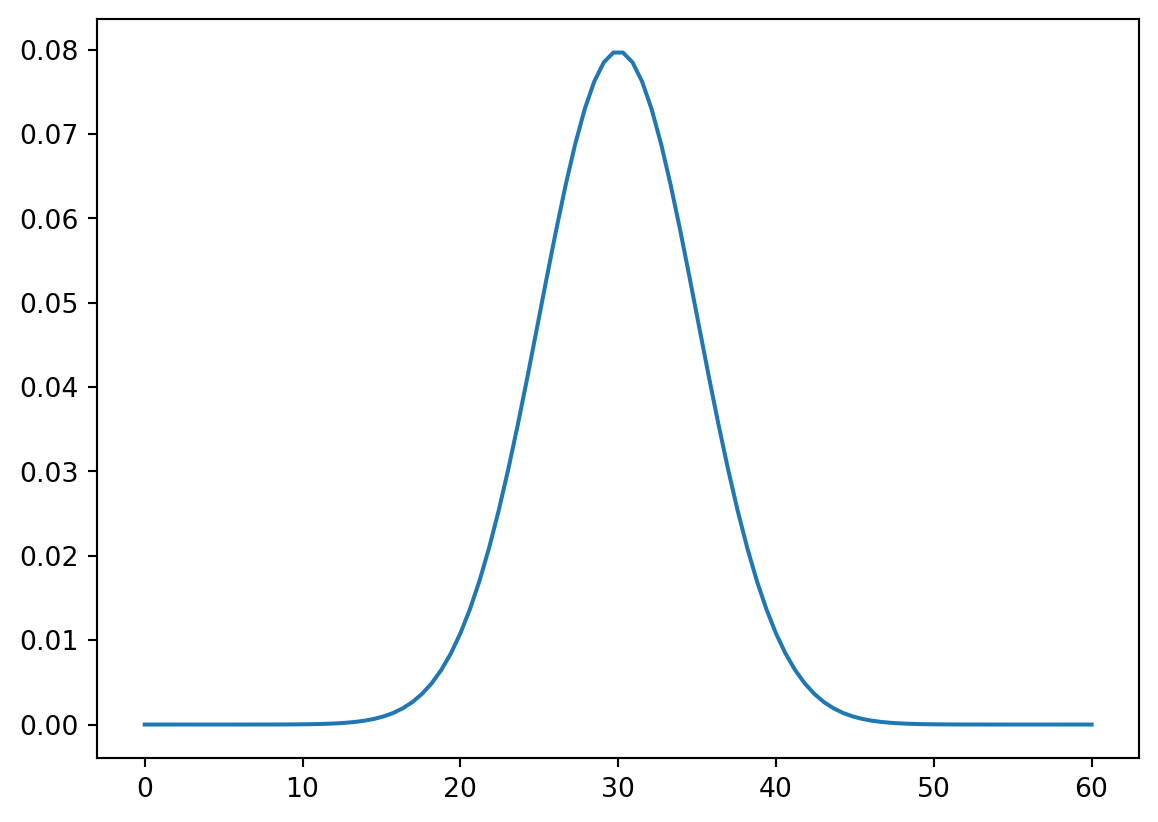
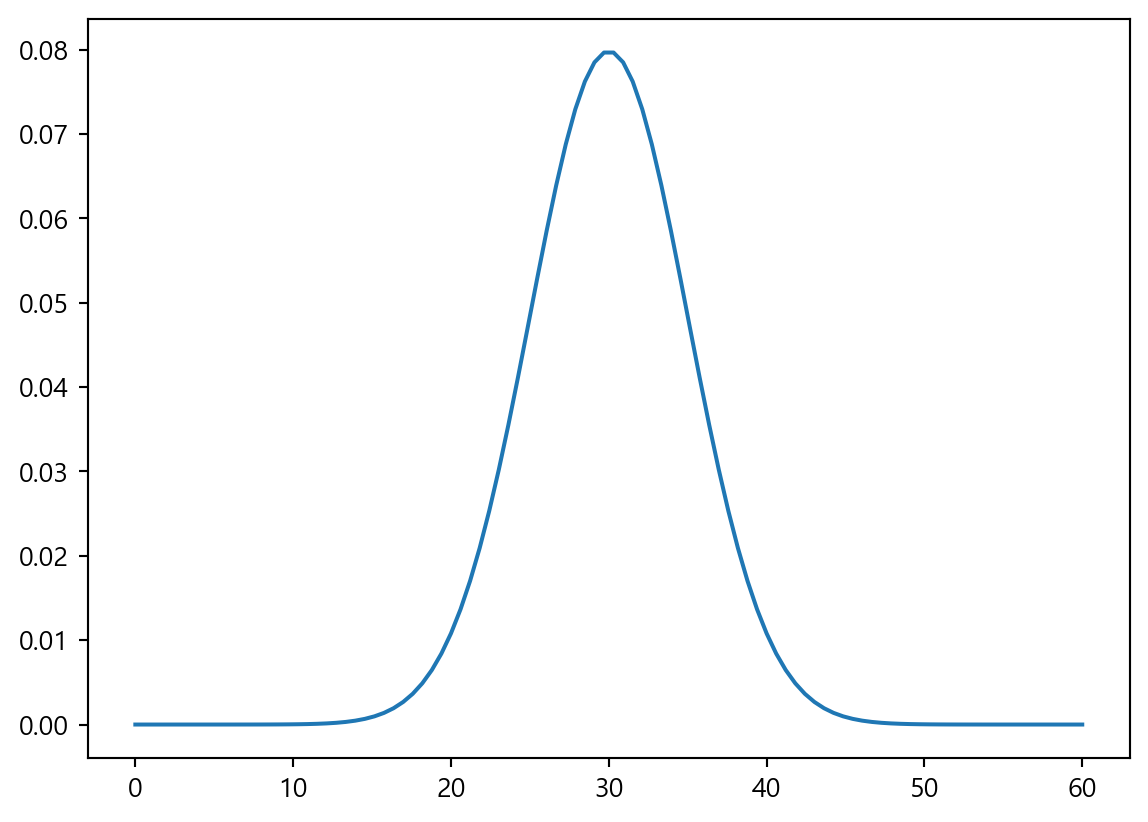
hw8

diff --git a/docs/posts/hw8/index.html b/docs/posts/hw8/index.html
@@ -214,7 +214,7 @@ pre > code.sourceCode > span > a:first-child::before { text-decoration: underlin
 <h2 class="anchored" data-anchor-id="년에-실시-된-adp-실기-시험의-통계파트-표준점수는-평균이-30-표준편차가-5인-정규분포를-따른다고-한다.">2022년에 실시 된 ADP 실기 시험의 통계파트 표준점수는 평균이 30, 표준편차가 5인 정규분포를 따른다고 한다.</h2>
 <section id="adp-실기-시험의-통계파트-표준점수의-밀도함수를-그려보세요." class="level4">
 <h4 class="anchored" data-anchor-id="adp-실기-시험의-통계파트-표준점수의-밀도함수를-그려보세요.">1) ADP 실기 시험의 통계파트 표준점수의 밀도함수를 그려보세요.</h4>
-<div id="e6371681" class="cell" data-execution_count="1">
+<div id="52dee985" class="cell" data-execution_count="1">
 <div class="sourceCode cell-code" id="cb1"><pre class="sourceCode python code-with-copy"><code class="sourceCode python"><span id="cb1-1"><a href="#cb1-1" aria-hidden="true" tabindex="-1"></a><span class="im">import</span> numpy <span class="im">as</span> np</span>
 <span id="cb1-2"><a href="#cb1-2" aria-hidden="true" tabindex="-1"></a><span class="im">from</span> scipy.stats <span class="im">import</span> norm</span>
 <span id="cb1-3"><a href="#cb1-3" aria-hidden="true" tabindex="-1"></a><span class="im">import</span> matplotlib.pyplot <span class="im">as</span> plt</span>
@@ -227,7 +227,7 @@ pre > code.sourceCode > span > a:first-child::before { text-decoration: underlin
 <div class="cell-output cell-output-display">
 <div>
 <figure class="figure">
-<p><img src="index_files/figure-html/cell-2-output-1.png" width="579" height="411" class="figure-img"></p>
+<p><img src="index_files/figure-html/cell-2-output-1.png" width="574" height="411" class="figure-img"></p>
 </figure>
 </div>
 </div>
@@ -235,7 +235,7 @@ pre > code.sourceCode > span > a:first-child::before { text-decoration: underlin
 </section>
 <section id="adp-수험생을-임의로-1명을-선택하여-통계-점수를-조회했을때-45점-보다-높은-점수를-받았을-확률을-구하세요." class="level4">
 <h4 class="anchored" data-anchor-id="adp-수험생을-임의로-1명을-선택하여-통계-점수를-조회했을때-45점-보다-높은-점수를-받았을-확률을-구하세요.">2) ADP 수험생을 임의로 1명을 선택하여 통계 점수를 조회했을때 45점 보다 높은 점수를 받았을 확률을 구하세요.</h4>
-<div id="ac5269f7" class="cell" data-execution_count="2">
+<div id="25799405" class="cell" data-execution_count="2">
 <div class="sourceCode cell-code" id="cb2"><pre class="sourceCode python code-with-copy"><code class="sourceCode python"><span id="cb2-1"><a href="#cb2-1" aria-hidden="true" tabindex="-1"></a><span class="co"># X ~ N(30,5^2) 일 때, p(X &gt; 45) 구해라.</span></span>
 <span id="cb2-2"><a href="#cb2-2" aria-hidden="true" tabindex="-1"></a><span class="bu">print</span>(<span class="st">"45점 보다 높은 점수를 받았을 확률 :"</span>,<span class="dv">1</span><span class="op">-</span> norm.cdf(<span class="dv">45</span>, loc<span class="op">=</span><span class="dv">30</span>, scale<span class="op">=</span><span class="dv">5</span>))</span></code><button title="Copy to Clipboard" class="code-copy-button"><i class="bi"></i></button></pre></div>
 <div class="cell-output cell-output-stdout">
@@ -245,7 +245,7 @@ pre > code.sourceCode > span > a:first-child::before { text-decoration: underlin
 </section>
 <section id="슬통이는-상위-10에-해당하는-점수를-얻었다고-한다면-슬통이의-점수는-얼마인지-계산해보세요." class="level4">
 <h4 class="anchored" data-anchor-id="슬통이는-상위-10에-해당하는-점수를-얻었다고-한다면-슬통이의-점수는-얼마인지-계산해보세요.">3) 슬통이는 상위 10%에 해당하는 점수를 얻었다고 한다면, 슬통이의 점수는 얼마인지 계산해보세요.</h4>
-<div id="fa888dbc" class="cell" data-execution_count="3">
+<div id="c6dfd127" class="cell" data-execution_count="3">
 <div class="sourceCode cell-code" id="cb4"><pre class="sourceCode python code-with-copy"><code class="sourceCode python"><span id="cb4-1"><a href="#cb4-1" aria-hidden="true" tabindex="-1"></a><span class="bu">print</span>(<span class="st">"상위 10%에 해당하는 점수 :"</span>,norm.ppf(<span class="fl">0.9</span>, loc<span class="op">=</span><span class="dv">30</span>, scale<span class="op">=</span><span class="dv">5</span>))</span></code><button title="Copy to Clipboard" class="code-copy-button"><i class="bi"></i></button></pre></div>
 <div class="cell-output cell-output-stdout">
 <pre><code>상위 10%에 해당하는 점수 : 36.407757827723</code></pre>
@@ -254,7 +254,7 @@ pre > code.sourceCode > span > a:first-child::before { text-decoration: underlin
 </section>
 <section id="슬기로운-통계생활의-해당-회차-수강생은-16명이었다고-한다.-16명의-통계-파트-점수를-평균-내었을-때-이-평균값이-따르는-분포의-확률밀도-함수를-1번의-그래프와-겹쳐-그려보세요." class="level4">
 <h4 class="anchored" data-anchor-id="슬기로운-통계생활의-해당-회차-수강생은-16명이었다고-한다.-16명의-통계-파트-점수를-평균-내었을-때-이-평균값이-따르는-분포의-확률밀도-함수를-1번의-그래프와-겹쳐-그려보세요.">4) 슬기로운 통계생활의 해당 회차 수강생은 16명이었다고 한다. 16명의 통계 파트 점수를 평균 내었을 때, 이 평균값이 따르는 분포의 확률밀도 함수를 1번의 그래프와 겹쳐 그려보세요.</h4>
-<div id="4009676a" class="cell" data-execution_count="4">
+<div id="54aaf6f4" class="cell" data-execution_count="4">
 <div class="sourceCode cell-code" id="cb6"><pre class="sourceCode python code-with-copy"><code class="sourceCode python"><span id="cb6-1"><a href="#cb6-1" aria-hidden="true" tabindex="-1"></a>x <span class="op">=</span> np.linspace(<span class="dv">0</span>, <span class="dv">60</span>, <span class="dv">100</span>)</span>
 <span id="cb6-2"><a href="#cb6-2" aria-hidden="true" tabindex="-1"></a>y <span class="op">=</span> norm.pdf(x, loc<span class="op">=</span><span class="dv">30</span>, scale<span class="op">=</span><span class="dv">5</span>)</span>
 <span id="cb6-3"><a href="#cb6-3" aria-hidden="true" tabindex="-1"></a>y2 <span class="op">=</span> norm.pdf(x, loc<span class="op">=</span><span class="dv">30</span>, scale<span class="op">=</span><span class="dv">5</span><span class="op">/</span>np.sqrt(<span class="dv">16</span>))</span>
@@ -283,7 +283,7 @@ pre > code.sourceCode > span > a:first-child::before { text-decoration: underlin
 </section>
 <section id="슬기로운-통계생활-adp-반-수강생들의-통계점수를-평균내었다고-할-때-이-값이-38점보다-높게-나올-확률을-구하세요." class="level4">
 <h4 class="anchored" data-anchor-id="슬기로운-통계생활-adp-반-수강생들의-통계점수를-평균내었다고-할-때-이-값이-38점보다-높게-나올-확률을-구하세요.">5) 슬기로운 통계생활 ADP 반 수강생들의 통계점수를 평균내었다고 할 때, 이 값이 38점보다 높게 나올 확률을 구하세요.</h4>
-<div id="1470973e" class="cell" data-execution_count="5">
+<div id="5ec36b6c" class="cell" data-execution_count="5">
 <div class="sourceCode cell-code" id="cb8"><pre class="sourceCode python code-with-copy"><code class="sourceCode python"><span id="cb8-1"><a href="#cb8-1" aria-hidden="true" tabindex="-1"></a><span class="co"># X_bar ~ N(30, (5/sqrt(16))^2) 일 때, p(X_bar &gt; 38) 구해라.</span></span>
 <span id="cb8-2"><a href="#cb8-2" aria-hidden="true" tabindex="-1"></a><span class="bu">print</span>(<span class="st">"38점 보다 높은 점수를 받았을 확률 :"</span>,<span class="dv">1</span><span class="op">-</span> norm.cdf(<span class="dv">38</span>, loc<span class="op">=</span><span class="dv">30</span>, scale<span class="op">=</span><span class="dv">5</span><span class="op">/</span>np.sqrt(<span class="dv">16</span>)))</span></code><button title="Copy to Clipboard" class="code-copy-button"><i class="bi"></i></button></pre></div>
 <div class="cell-output cell-output-stdout">
@@ -302,7 +302,7 @@ pre > code.sourceCode > span > a:first-child::before { text-decoration: underlin
 <h2 class="anchored" data-anchor-id="covid19의-발병률은-1라고-한다.-다음은-이번-코로나-사태로-인하여-코로나-의심-환자들-1085명을-대상으로-슬통-회사의-다잡아-키트를-사용하여-양성-반응을-체크한-결과이다.">Covid‑19의 발병률은 1%라고 한다. 다음은 이번 코로나 사태로 인하여 코로나 의심 환자들 1,085명을 대상으로 슬통 회사의 “다잡아” 키트를 사용하여 양성 반응을 체크한 결과이다.</h2>
 <section id="다잡아-키트가-코로나-바이러스에-걸린-사람을-양성으로-잡아낼-확률을-계산하세요." class="level4">
 <h4 class="anchored" data-anchor-id="다잡아-키트가-코로나-바이러스에-걸린-사람을-양성으로-잡아낼-확률을-계산하세요.">1) 다잡아 키트가 코로나 바이러스에 걸린 사람을 양성으로 잡아낼 확률을 계산하세요.</h4>
-<div id="310bc001" class="cell" data-execution_count="6">
+<div id="6db91b22" class="cell" data-execution_count="6">
 <div class="cell-output cell-output-stdout">
 <pre><code>p(키트 양성 | 실제 양성) = 370 / (370 + 15) =  0.961038961038961</code></pre>
 </div>
@@ -311,7 +311,7 @@ pre > code.sourceCode > span > a:first-child::before { text-decoration: underlin
 <section id="슬통-회사에서-다잡아-키트를-사용해-양성으로-나온-사람이-실제로는-코로나-바이러스에-걸려-있을-확률을-97라며-키트의-우수성을-주장했다.-이-주장이-옳지-않은-이유를-서술하세요." class="level4">
 <h4 class="anchored" data-anchor-id="슬통-회사에서-다잡아-키트를-사용해-양성으로-나온-사람이-실제로는-코로나-바이러스에-걸려-있을-확률을-97라며-키트의-우수성을-주장했다.-이-주장이-옳지-않은-이유를-서술하세요.">2) 슬통 회사에서 다잡아 키트를 사용해 양성으로 나온 사람이 실제로는 코로나 바이러스에 걸려 있을 확률을 97%라며, 키트의 우수성을 주장했다. 이 주장이 옳지 않은 이유를 서술하세요.</h4>
 <p>실제로는 코로나 걸릴 확률이 0.01인데, 슬통 회사가 조사한 자료에 의하면 코로나 걸릴 확률이 0.35으로 실제와 차이가 커서 키트의 우수성을 주장하기가 어렵다.</p>
-<div id="3790b855" class="cell" data-execution_count="7">
+<div id="f7d38414" class="cell" data-execution_count="7">
 <div class="cell-output cell-output-stdout">
 <pre><code>p(조사된 코로나 걸릴 확률) = 실제 양성인 사람 수 / 전체 사람 수  = (370 + 15) / (370 + 10 + 15 + 690) =  0.3548387096774194
 p(실제 코로나 걸릴 확률) =  0.01</code></pre>
@@ -320,7 +320,7 @@ p(실제 코로나 걸릴 확률) =  0.01</code></pre>
 </section>
 <section id="covid19-발병률을-사용하여-키트의-결과값이-양성으로-나온-사람이-실제로-코로나-바이러스에-걸려있을-확률을-구하세요." class="level4">
 <h4 class="anchored" data-anchor-id="covid19-발병률을-사용하여-키트의-결과값이-양성으로-나온-사람이-실제로-코로나-바이러스에-걸려있을-확률을-구하세요.">3) Covid‑19 발병률을 사용하여, 키트의 결과값이 양성으로 나온 사람이 실제로 코로나 바이러스에 걸려있을 확률을 구하세요.</h4>
-<div id="3f6684e9" class="cell" data-execution_count="8">
+<div id="f3fe0080" class="cell" data-execution_count="8">
 <div class="cell-output cell-output-stdout">
 <pre><code>p(실제 양성 | 키트 양성) 
 = p(실제 양성 동시에 키트 양성) / p(키트 양성) 
@@ -339,7 +339,7 @@ p(실제 코로나 걸릴 확률) =  0.01</code></pre>
 <h1>카이제곱분포와 표본분산</h1>
 <section id="자유도가-4인-카이제곱분포의-확률밀도함수를-그려보세요." class="level4">
 <h4 class="anchored" data-anchor-id="자유도가-4인-카이제곱분포의-확률밀도함수를-그려보세요.">1) 자유도가 4인 카이제곱분포의 확률밀도함수를 그려보세요.</h4>
-<div id="59120503" class="cell" data-execution_count="9">
+<div id="894536eb" class="cell" data-execution_count="9">
 <div class="sourceCode cell-code" id="cb13"><pre class="sourceCode python code-with-copy"><code class="sourceCode python"><span id="cb13-1"><a href="#cb13-1" aria-hidden="true" tabindex="-1"></a><span class="im">from</span> scipy.stats <span class="im">import</span> chi2</span>
 <span id="cb13-2"><a href="#cb13-2" aria-hidden="true" tabindex="-1"></a></span>
 <span id="cb13-3"><a href="#cb13-3" aria-hidden="true" tabindex="-1"></a>x <span class="op">=</span> np.linspace(<span class="dv">0</span>,<span class="dv">20</span>, <span class="dv">100</span>)</span>
@@ -359,7 +359,7 @@ p(실제 코로나 걸릴 확률) =  0.01</code></pre>
 </section>
 <section id="𝑃-3-𝑋-5-확률을-구해보세요." class="level4">
 <h4 class="anchored" data-anchor-id="𝑃-3-𝑋-5-확률을-구해보세요.">2) 𝑃 (3 ≤ 𝑋 ≤ 5) 확률을 구해보세요.</h4>
-<div id="4fcd212f" class="cell" data-execution_count="10">
+<div id="971dcddd" class="cell" data-execution_count="10">
 <div class="sourceCode cell-code" id="cb14"><pre class="sourceCode python code-with-copy"><code class="sourceCode python"><span id="cb14-1"><a href="#cb14-1" aria-hidden="true" tabindex="-1"></a><span class="bu">print</span>(<span class="st">"p(3&lt;= X &lt;=5) :"</span>,chi2.cdf(<span class="dv">5</span>, df<span class="op">=</span><span class="dv">4</span>) <span class="op">-</span> chi2.cdf(<span class="dv">3</span>, df<span class="op">=</span><span class="dv">4</span>) )</span></code><button title="Copy to Clipboard" class="code-copy-button"><i class="bi"></i></button></pre></div>
 <div class="cell-output cell-output-stdout">
 <pre><code>p(3&lt;= X &lt;=5) : 0.27052790518742903</code></pre>
@@ -368,7 +368,7 @@ p(실제 코로나 걸릴 확률) =  0.01</code></pre>
 </section>
 <section id="자유도가-4인-카이제곱분포에서-크기가-1000인-표본을-뽑은-후-히스토그램을-그려보세요." class="level4">
 <h4 class="anchored" data-anchor-id="자유도가-4인-카이제곱분포에서-크기가-1000인-표본을-뽑은-후-히스토그램을-그려보세요.">3) 자유도가 4인 카이제곱분포에서 크기가 1000인 표본을 뽑은 후, 히스토그램을 그려보세요.</h4>
-<div id="fea96b18" class="cell" data-execution_count="11">
+<div id="2d036205" class="cell" data-execution_count="11">
 <div class="sourceCode cell-code" id="cb16"><pre class="sourceCode python code-with-copy"><code class="sourceCode python"><span id="cb16-1"><a href="#cb16-1" aria-hidden="true" tabindex="-1"></a>x <span class="op">=</span> chi2.rvs(df<span class="op">=</span><span class="dv">4</span>, size<span class="op">=</span><span class="dv">1000</span>, random_state<span class="op">=</span><span class="dv">20240902</span>)</span>
 <span id="cb16-2"><a href="#cb16-2" aria-hidden="true" tabindex="-1"></a></span>
 <span id="cb16-3"><a href="#cb16-3" aria-hidden="true" tabindex="-1"></a>plt.clf()</span>
@@ -385,7 +385,7 @@ p(실제 코로나 걸릴 확률) =  0.01</code></pre>
 </section>
 <section id="자유도가-4인-카이제곱분포를-따르는-확률변수에서-나올-수-있는-값-중-상위-5에-해당하는-값은-얼마인지-계산해보세요." class="level4">
 <h4 class="anchored" data-anchor-id="자유도가-4인-카이제곱분포를-따르는-확률변수에서-나올-수-있는-값-중-상위-5에-해당하는-값은-얼마인지-계산해보세요.">4) 자유도가 4인 카이제곱분포를 따르는 확률변수에서 나올 수 있는 값 중 상위 5%에 해당하는 값은 얼마인지 계산해보세요.</h4>
-<div id="6ef9d21f" class="cell" data-execution_count="12">
+<div id="9d3494a6" class="cell" data-execution_count="12">
 <div class="sourceCode cell-code" id="cb17"><pre class="sourceCode python code-with-copy"><code class="sourceCode python"><span id="cb17-1"><a href="#cb17-1" aria-hidden="true" tabindex="-1"></a><span class="bu">print</span>(<span class="st">"상위 5%에 해당하는 값 :"</span>, chi2.ppf(<span class="fl">0.95</span>, df<span class="op">=</span><span class="dv">4</span>))</span></code><button title="Copy to Clipboard" class="code-copy-button"><i class="bi"></i></button></pre></div>
 <div class="cell-output cell-output-stdout">
 <pre><code>상위 5%에 해당하는 값 : 9.487729036781154</code></pre>
@@ -394,7 +394,7 @@ p(실제 코로나 걸릴 확률) =  0.01</code></pre>
 </section>
 <section id="번에서-뽑힌-표본값들-중-상위-5에-위치한-표본의-값은-얼마인가요" class="level4">
 <h4 class="anchored" data-anchor-id="번에서-뽑힌-표본값들-중-상위-5에-위치한-표본의-값은-얼마인가요">5) 3번에서 뽑힌 표본값들 중 상위 5%에 위치한 표본의 값은 얼마인가요?</h4>
-<div id="87b4c51a" class="cell" data-execution_count="13">
+<div id="73c28a5c" class="cell" data-execution_count="13">
 <div class="sourceCode cell-code" id="cb19"><pre class="sourceCode python code-with-copy"><code class="sourceCode python"><span id="cb19-1"><a href="#cb19-1" aria-hidden="true" tabindex="-1"></a>x <span class="op">=</span> chi2.rvs(df<span class="op">=</span><span class="dv">4</span>, size<span class="op">=</span><span class="dv">1000</span>, random_state<span class="op">=</span><span class="dv">20240902</span>)</span>
 <span id="cb19-2"><a href="#cb19-2" aria-hidden="true" tabindex="-1"></a><span class="bu">print</span>(<span class="st">"상위 5%에 위치한 표본의 값 :"</span>, np.percentile(x, <span class="dv">95</span>))</span></code><button title="Copy to Clipboard" class="code-copy-button"><i class="bi"></i></button></pre></div>
 <div class="cell-output cell-output-stdout">
@@ -407,7 +407,7 @@ p(실제 코로나 걸릴 확률) =  0.01</code></pre>
 <p>• 같은 방법으로 500개의 s^2 들, s1^2, s2^2, … , s500^2 발생시킵니다.<br>
 • 발생한 500개의 s^2 들 각각에 4.75를 곱하고, 그것들의 히스토그램을 그려보세요. (히스토그램을 그릴 때 probability = TRUE 옵션을 사용해서 그릴 것)<br>
 • 위에서 그린 히스토그램에 자유도가 19인 카이제곱분포 확률밀도함수를 겹쳐그려보세요.</p>
-<div id="c0245c38" class="cell" data-execution_count="14">
+<div id="76c5ecd8" class="cell" data-execution_count="14">
 <div class="sourceCode cell-code" id="cb21"><pre class="sourceCode python code-with-copy"><code class="sourceCode python"><span id="cb21-1"><a href="#cb21-1" aria-hidden="true" tabindex="-1"></a>x <span class="op">=</span> norm.rvs(loc<span class="op">=</span><span class="dv">3</span>, scale<span class="op">=</span><span class="dv">2</span>, size<span class="op">=</span><span class="dv">20</span><span class="op">*</span><span class="dv">500</span>, random_state<span class="op">=</span><span class="dv">20240902</span>)</span>
 <span id="cb21-2"><a href="#cb21-2" aria-hidden="true" tabindex="-1"></a>x <span class="op">=</span> x.reshape(<span class="op">-</span><span class="dv">1</span>,<span class="dv">20</span>)</span>
 <span id="cb21-3"><a href="#cb21-3" aria-hidden="true" tabindex="-1"></a>si2 <span class="op">=</span> np.var(x, axis<span class="op">=</span><span class="dv">1</span>, ddof<span class="op">=</span><span class="dv">1</span>)</span>

diff --git a/docs/posts/index.html b/docs/posts/index.html
@@ -250,7 +250,7 @@ hw3
 </div>
 </a>
 </div>
-<div class="g-col-1" data-index="1" data-categories="statistics" data-listing-date-sort="1725202800000" data-listing-file-modified-sort="1725282445963" data-listing-date-modified-sort="NaN" data-listing-reading-time-sort="3" data-listing-word-count-sort="596">
+<div class="g-col-1" data-index="1" data-categories="statistics" data-listing-date-sort="1725202800000" data-listing-file-modified-sort="1725282650192" data-listing-date-modified-sort="NaN" data-listing-reading-time-sort="4" data-listing-word-count-sort="619">
 <a href="../posts/hw8/index.html" class="quarto-grid-link">
 <div class="quarto-grid-item card h-100 card-left">
 <p class="card-img-top"><img src="hw8\index_files\figure-html\cell-2-output-1.png" style="height: 150px;"  class="thumbnail-image card-img"/></p>
